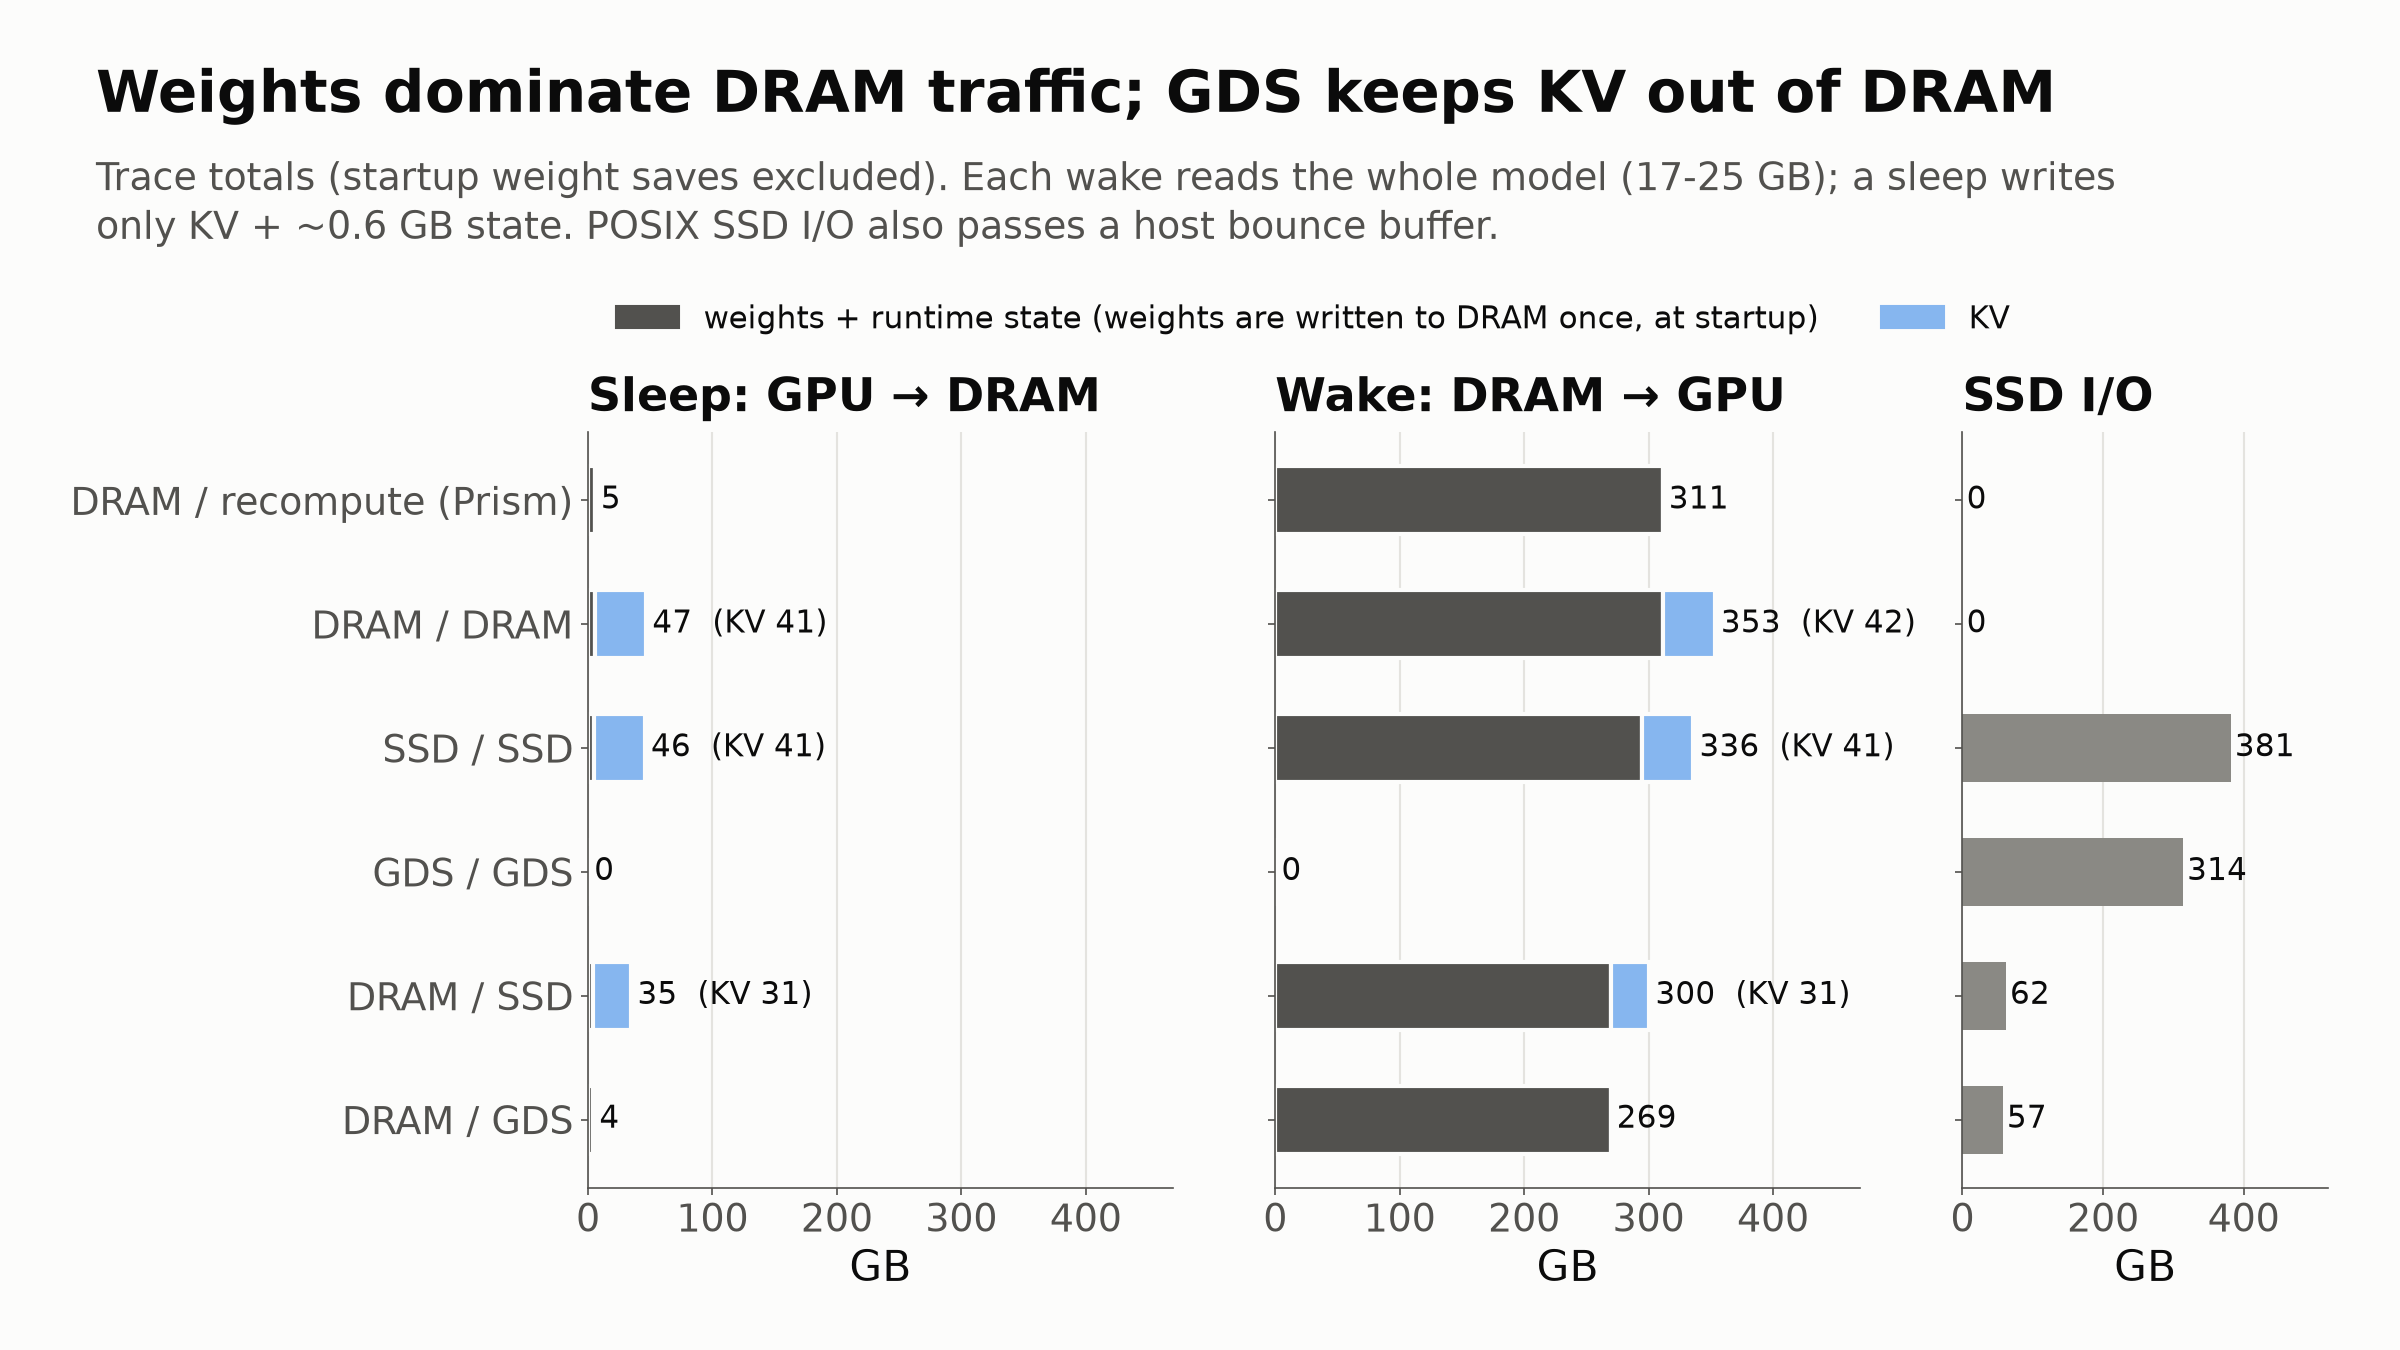
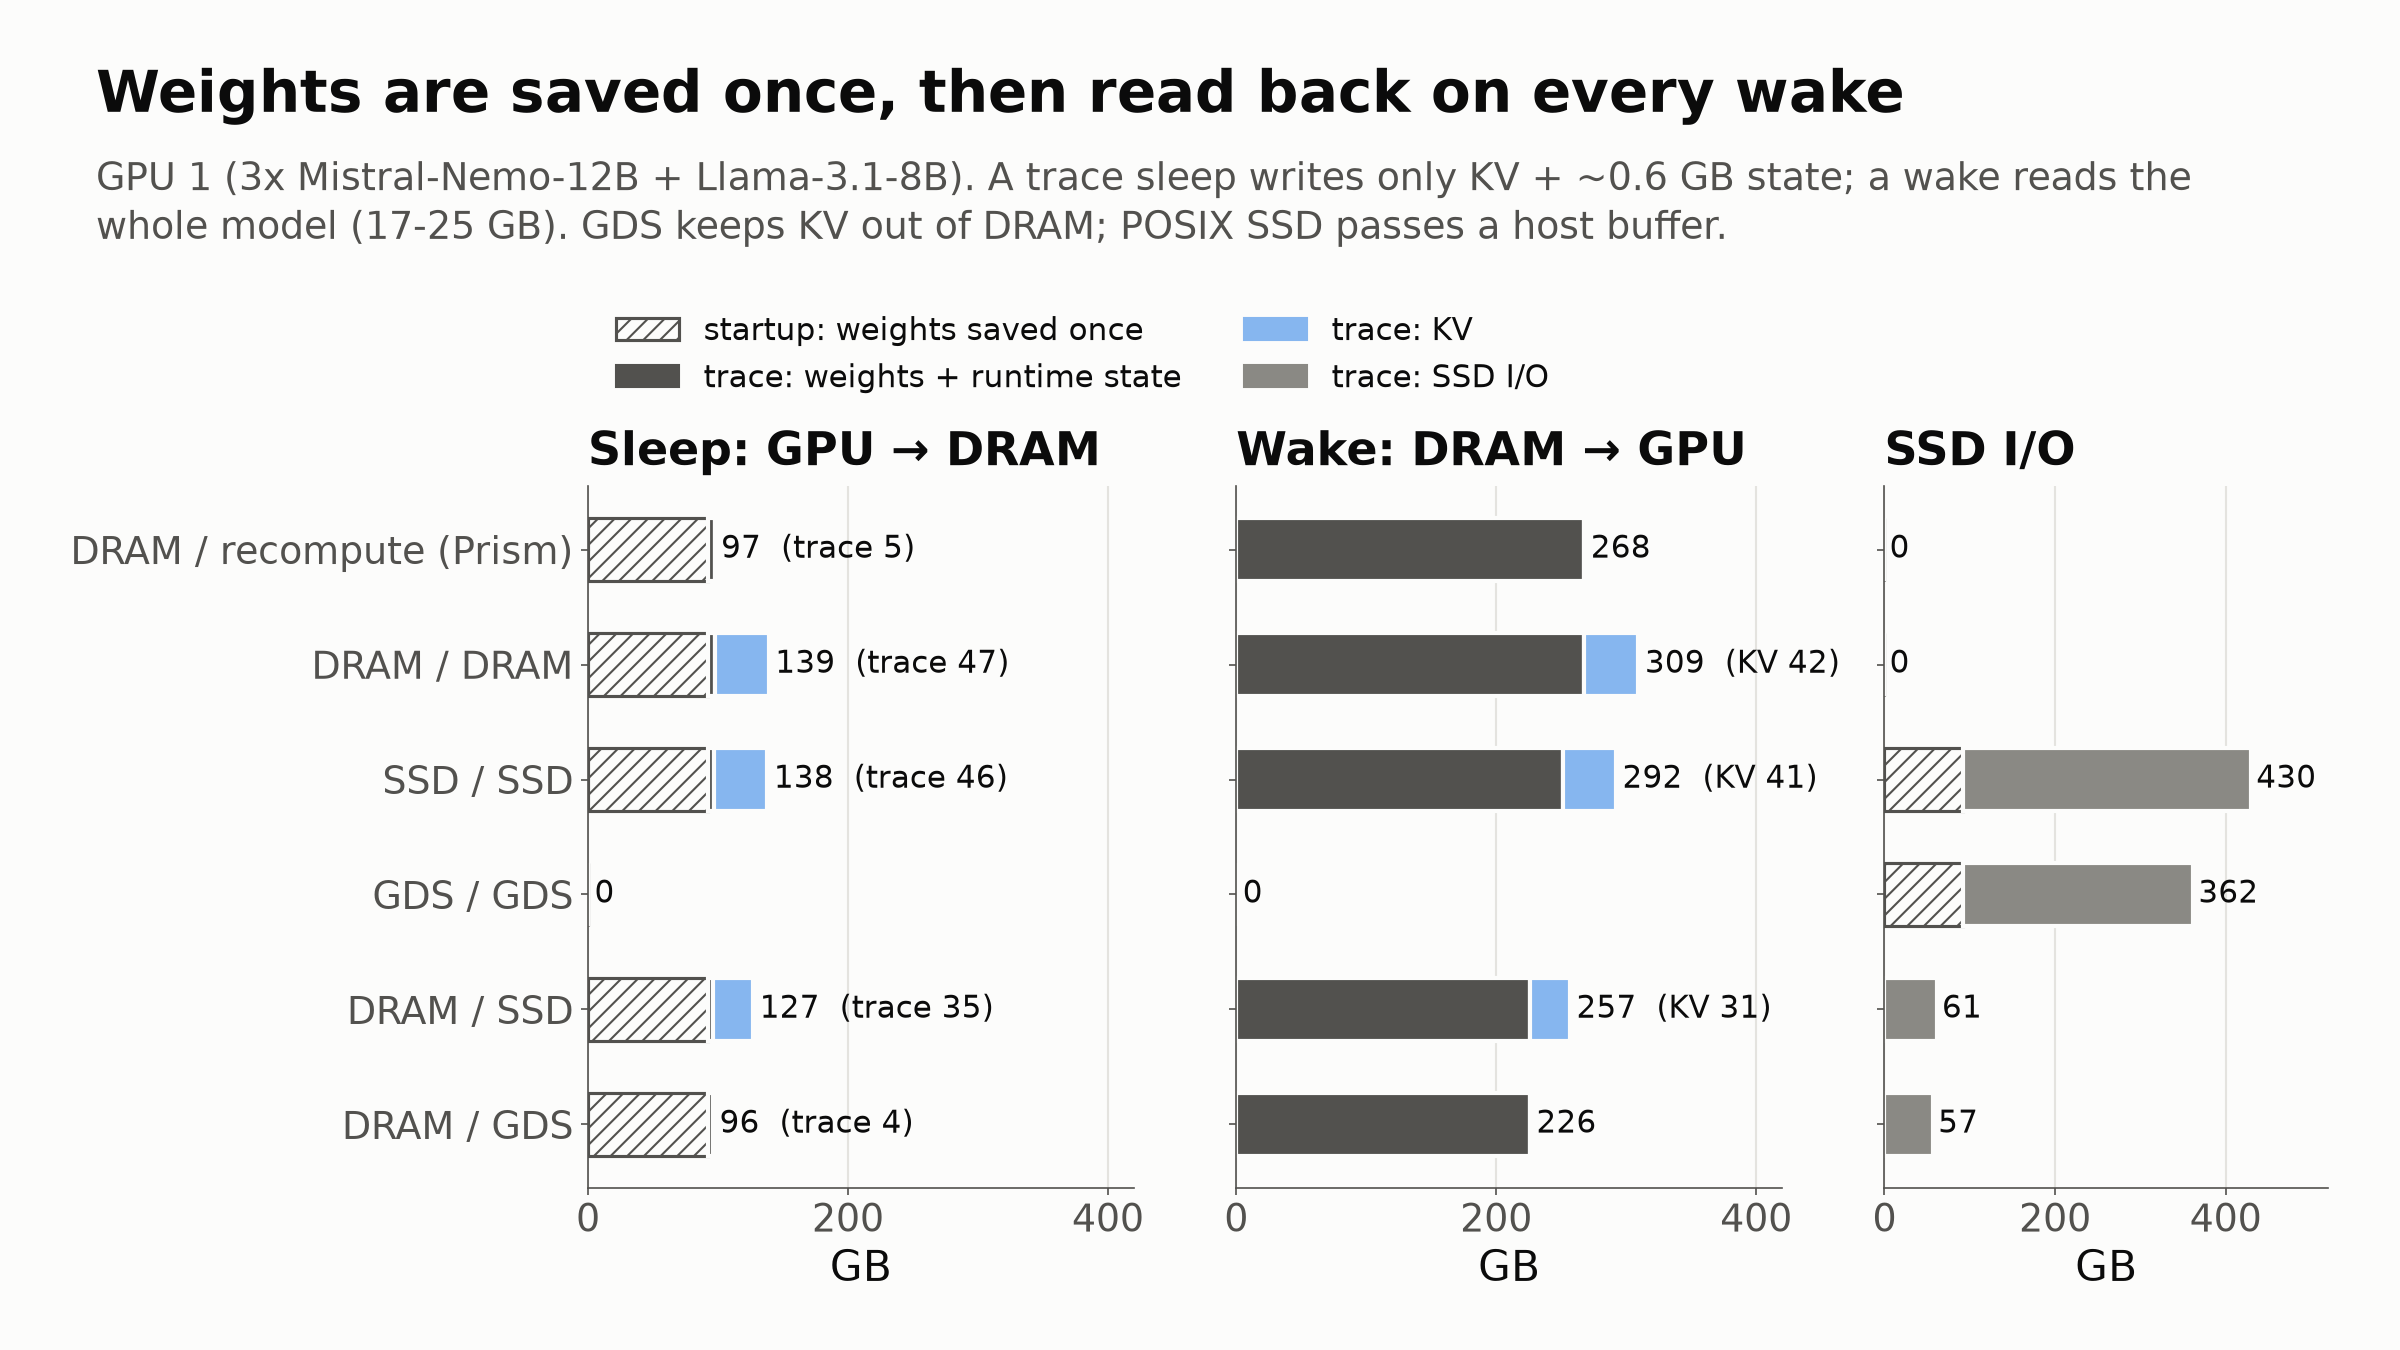
Show only GPU 1 in slide figures; add the startup weight save
All four figures now cover GPU 1 only, the pressured GPU with
3x Mistral-Nemo-12B and Llama-3.1-8B. GPU 2 only ever had cold wakes,
which added about 43 GB to every config.

The DRAM traffic figure now also shows, hatched, the one-time weight save
at startup: 92 GB to DRAM, or to SSD for the SSD/GDS-only configs. That
makes it clear the weights are written once and read back on every wake.

diff --git a/analysis/plot_paths_slides.py b/analysis/plot_paths_slides.py
@@ -59,21 +59,24 @@ def style(cfg):
 
 
 def load(cfg):
+    """(trace records, startup records, TTFTs), all for the instances on HOT_GPU only.
+
+    Startup records are the sleep each instance does right after launch, before the
+    trace; that is where the weights are written to their store, once.
+    """
     d = os.path.join(RES, PREFIX + cfg)
     swaps = [json.loads(l) for l in open(os.path.join(d, "swaps.jsonl"))]
     t0 = min(s["t_unix"] for s in swaps)
-    recs = []
-    for f in glob.glob(os.path.join(d, "tiered_*.jsonl")):
-        name = os.path.basename(f)[len("tiered_"):-len(".jsonl")]
-        for line in open(f):
-            r = json.loads(line)
-            if r["t_unix"] >= t0 - 1:
-                recs.append(dict(r, inst=name))
     with open(os.path.join(d, "instances.tsv")) as f:
         hot = {name for name, _, gpu, _ in csv.reader(f, delimiter="\t") if int(gpu) == HOT_GPU}
+    trace, startup = [], []
+    for name in hot:
+        for line in open(os.path.join(d, f"tiered_{name}.jsonl")):
+            r = dict(json.loads(line), inst=name)
+            (trace if r["t_unix"] >= t0 - 1 else startup).append(r)
     reqs = [json.loads(l) for l in open(os.path.join(d, "requests.jsonl"))]
     ttft = np.array(sorted(r["ttft_s"] for r in reqs if r["ok"] and r["model"] in hot))
-    return recs, ttft
+    return trace, startup, ttft
 
 
 DATA = {c: load(c) for c in CONFIGS}
@@ -103,7 +106,7 @@ def fig_restore_vs_kv():
               ("Weights restored from SSD (POSIX or GDS)", ["ssd+ssd", "gds+gds"])]
     for ax, (title, cfgs) in zip(axes, panels):
         for c in cfgs:
-            res = [r for r in DATA[c][0] if r["event"] == "resume"]
+            res = [r for r in DATA[c][0] if r["event"] == "resume"]  # GPU 1 wakes
             x = np.array([r.get("kv_bytes", 0) / GB for r in res])
             y = np.array([restore_s(r) for r in res])
             st = style(c)
@@ -123,8 +126,8 @@ def fig_restore_vs_kv():
     axes[0].set_ylabel("Restore time (s)")
     axes[0].set_ylim(0, None)
     headline(fig, "Restore time = weights floor + KV size / KV-path bandwidth",
-             "One point per wake during the trace (weights: Nemo-12B 25 GB, Llama-8B 17 GB). Lines: least-squares "
-             "fits, labeled with the KV path's effective bandwidth. Recompute (gray) restores no KV.")
+             "GPU 1 (3x Mistral-Nemo-12B, 25 GB weights each, + Llama-3.1-8B, 17 GB). One point per wake during "
+             "the trace. Lines: least-squares fits, labeled with the KV path's bandwidth. Recompute (gray): no KV.")
     for ax in axes:
         ax.margins(x=0)
     axes[1].set_xlim(-0.3, 15.5)
@@ -176,56 +179,87 @@ def fig_restore_breakdown():
 
 
 # 3. DRAM traffic -------------------------------------------------------------------------
-def dram_split(cfg):
-    """GB through host DRAM during the trace, split by direction and by weights(+state) / KV."""
-    out = {"sleep_weights": 0, "sleep_kv": 0, "wake_weights": 0, "wake_kv": 0}
-    for r in DATA[cfg][0]:
+STORAGE = {"ssd", "gds"}
+
+
+def traffic(cfg):
+    """GB on GPU 1: through host DRAM (sleep/wake, weights+state / KV) and SSD I/O, plus the startup save."""
+    trace, startup, _ = DATA[cfg]
+    t = dict(startup_dram=0.0, startup_ssd=0.0, sleep_weights=0.0, sleep_kv=0.0, wake_weights=0.0,
+             wake_kv=0.0, ssd=0.0)
+    for r in startup:  # the one-time weight save (+ state) right after launch
+        moved = r.get("weights_save_host_bytes", 0) + r["state_save_host_bytes"] + r["kv_save_host_bytes"]
+        t["startup_dram"] += moved / GB
+        if r["weights_path"] in STORAGE:
+            t["startup_ssd"] += (r["weights_bytes"] + r["state_bytes"]) / GB
+    for r in trace:
         if r["event"] == "resume":
-            out["wake_weights"] += r["weights_host_bytes"] / GB
-            out["wake_kv"] += r.get("kv_host_bytes", 0) / GB
+            t["wake_weights"] += r["weights_host_bytes"] / GB
+            t["wake_kv"] += r.get("kv_host_bytes", 0) / GB
+            t["ssd"] += (r["weights_bytes"] if r["weights_path"] in STORAGE else 0) / GB
+            t["ssd"] += (r.get("kv_bytes", 0) if r["kv_path"] in STORAGE else 0) / GB
         else:
-            out["sleep_weights"] += r["state_save_host_bytes"] / GB
-            out["sleep_kv"] += r["kv_save_host_bytes"] / GB
-    return out
+            t["sleep_weights"] += r["state_save_host_bytes"] / GB
+            t["sleep_kv"] += r["kv_save_host_bytes"] / GB
+            t["ssd"] += (r["state_bytes"] if r["weights_path"] in STORAGE else 0) / GB
+            t["ssd"] += (r["kv_bytes"] if r["kv_path"] in STORAGE else 0) / GB
+    return t
 
 
 def fig_dram_traffic():
-    rows = json.load(open(os.path.join(RES, "comparison", "paths_rep2.json")))
+    from matplotlib.patches import Patch
+
     cfgs = list(CONFIGS)[::-1]
-    split = {c: dram_split(c) for c in cfgs}
-    fig, axes = plt.subplots(1, 3, sharey=True, gridspec_kw=dict(width_ratios=[1.6, 1.6, 1], wspace=0.2))
-    fig.subplots_adjust(left=0.245, right=0.97, top=0.68, bottom=0.12)
+    tr = {c: traffic(c) for c in cfgs}
+    fig, axes = plt.subplots(1, 3, sharey=True, gridspec_kw=dict(width_ratios=[1.6, 1.6, 1.3], wspace=0.2))
+    fig.subplots_adjust(left=0.245, right=0.97, top=0.64, bottom=0.12)
     y = np.arange(len(cfgs))
     W_C, KV_C = "#52514e", "#86b6ef"
-    for ax, key, title in ((axes[0], "sleep", "Sleep: GPU → DRAM"), (axes[1], "wake", "Wake: DRAM → GPU")):
-        w = np.array([split[c][key + "_weights"] for c in cfgs])
-        kv = np.array([split[c][key + "_kv"] for c in cfgs])
-        ax.barh(y, w, height=0.55, color=W_C, edgecolor=SURFACE, linewidth=2,
-                label="weights + runtime state" if key == "wake" else "runtime state (weights are saved once, at startup)")
-        ax.barh(y, kv, left=w, height=0.55, color=KV_C, edgecolor=SURFACE, linewidth=2, label="KV")
-        for yi, a, b in zip(y, w, kv):
-            ax.text(a + b + 5, yi, f"{a + b:.0f}" + (f"  (KV {b:.0f})" if b >= 1 else ""), va="center", fontsize=15)
-        ax.set_xlim(0, 470)
-        ax.set_title(title, loc="left", fontweight="bold", pad=10)
+    hatch = dict(facecolor=SURFACE, edgecolor=W_C, hatch="///", linewidth=1.5)
+    # sleep: startup save (hatched) + trace sleeps; wake: trace wakes
+    a = axes[0]
+    st = np.array([tr[c]["startup_dram"] for c in cfgs])
+    w = np.array([tr[c]["sleep_weights"] for c in cfgs])
+    kv = np.array([tr[c]["sleep_kv"] for c in cfgs])
+    a.barh(y, st, height=0.55, **hatch)
+    a.barh(y, w, left=st, height=0.55, color=W_C, edgecolor=SURFACE, linewidth=2)
+    a.barh(y, kv, left=st + w, height=0.55, color=KV_C, edgecolor=SURFACE, linewidth=2)
+    for yi, s0, a1, b1 in zip(y, st, w, kv):
+        a.text(s0 + a1 + b1 + 5, yi, f"{s0 + a1 + b1:.0f}" + (f"  (trace {a1 + b1:.0f})" if s0 else ""),
+               va="center", fontsize=15)
+    a.set_title("Sleep: GPU → DRAM", loc="left", fontweight="bold", pad=10)
+    b = axes[1]
+    w = np.array([tr[c]["wake_weights"] for c in cfgs])
+    kv = np.array([tr[c]["wake_kv"] for c in cfgs])
+    b.barh(y, w, height=0.55, color=W_C, edgecolor=SURFACE, linewidth=2)
+    b.barh(y, kv, left=w, height=0.55, color=KV_C, edgecolor=SURFACE, linewidth=2)
+    for yi, a1, b1 in zip(y, w, kv):
+        b.text(a1 + b1 + 5, yi, f"{a1 + b1:.0f}" + (f"  (KV {b1:.0f})" if b1 >= 1 else ""), va="center", fontsize=15)
+    b.set_title("Wake: DRAM → GPU", loc="left", fontweight="bold", pad=10)
+    for ax in axes[:2]:
+        ax.set_xlim(0, 420)
         ax.set_xlabel("GB")
-    from matplotlib.patches import Patch
-    axes[0].legend(handles=[Patch(color=W_C, label="weights + runtime state (weights are written to DRAM once, at startup)"),
-                            Patch(color=KV_C, label="KV")],
-                   loc="lower left", bbox_to_anchor=(0, 1.09), ncol=2, frameon=False, fontsize=15)
-    b = axes[2]
-    ssd = [rows[c]["storage_io_gb"] for c in cfgs]
-    b.barh(y, ssd, height=0.55, color=GRAY)
-    for yi, v in zip(y, ssd):
-        b.text(v + 6, yi, f"{v:.0f}", va="center", fontsize=15)
-    b.set_title("SSD I/O", loc="left", fontweight="bold", pad=10)
-    b.set_xlabel("GB")
-    b.set_xlim(0, 520)
+    c3 = axes[2]
+    st = np.array([tr[c]["startup_ssd"] for c in cfgs])
+    io = np.array([tr[c]["ssd"] for c in cfgs])
+    c3.barh(y, st, height=0.55, **hatch)
+    c3.barh(y, io, left=st, height=0.55, color=GRAY, edgecolor=SURFACE, linewidth=2)
+    for yi, s0, v in zip(y, st, io):
+        c3.text(s0 + v + 6, yi, f"{s0 + v:.0f}", va="center", fontsize=15)
+    c3.set_title("SSD I/O", loc="left", fontweight="bold", pad=10)
+    c3.set_xlim(0, 520)
+    c3.set_xlabel("GB")
     axes[0].set_yticks(y, [CONFIGS[c][0] for c in cfgs])
     for ax in axes:
         ax.grid(axis="y", visible=False)
-    headline(fig, "Weights dominate DRAM traffic; GDS keeps KV out of DRAM",
-             "Trace totals (startup weight saves excluded). Each wake reads the whole model (17-25 GB); a sleep "
-             "writes only KV + ~0.6 GB state. POSIX SSD I/O also passes a host bounce buffer.")
+    axes[0].legend(handles=[Patch(label="startup: weights saved once", **hatch),
+                            Patch(color=W_C, label="trace: weights + runtime state"),
+                            Patch(color=KV_C, label="trace: KV"),
+                            Patch(color=GRAY, label="trace: SSD I/O")],
+                   loc="lower left", bbox_to_anchor=(0, 1.09), ncol=2, frameon=False, fontsize=15)
+    headline(fig, "Weights are saved once, then read back on every wake",
+             "GPU 1 (3x Mistral-Nemo-12B + Llama-3.1-8B). A trace sleep writes only KV + ~0.6 GB state; "
+             "a wake reads the whole model (17-25 GB). GDS keeps KV out of DRAM; POSIX SSD passes a host buffer.")
     save(fig, "dram_traffic.png")
 
 
@@ -234,7 +268,7 @@ def fig_ttft():
     fig, axes = plt.subplots(1, 2, gridspec_kw=dict(wspace=0.15))
     fig.subplots_adjust(left=0.07, right=0.68, top=0.74, bottom=0.12)
     for c in CONFIGS:
-        t = DATA[c][1]
+        t = DATA[c][2]
         q = np.arange(1, len(t) + 1) / len(t)
         st = style(c)
         for ax in axes:
@@ -250,7 +284,7 @@ def fig_ttft():
     axes[1].set_xlim(0.3, 60)
     axes[1].set_title("Tail (top 5%)", loc="left", fontweight="bold", pad=12)
     axes[1].legend(loc="center left", bbox_to_anchor=(1.03, 0.5), frameon=False, fontsize=16, labelspacing=0.9)
-    n = len(DATA["dram+dram"][1])
+    n = len(DATA["dram+dram"][2])
     headline(fig, "DRAM weights + SSD/GDS KV: the shortest TTFT tail",
              f"Requests to the pressured GPU (4 models, {n} requests). Prism Arena trace, time scale 0.2, "
              "replication 2, one run per config.")
